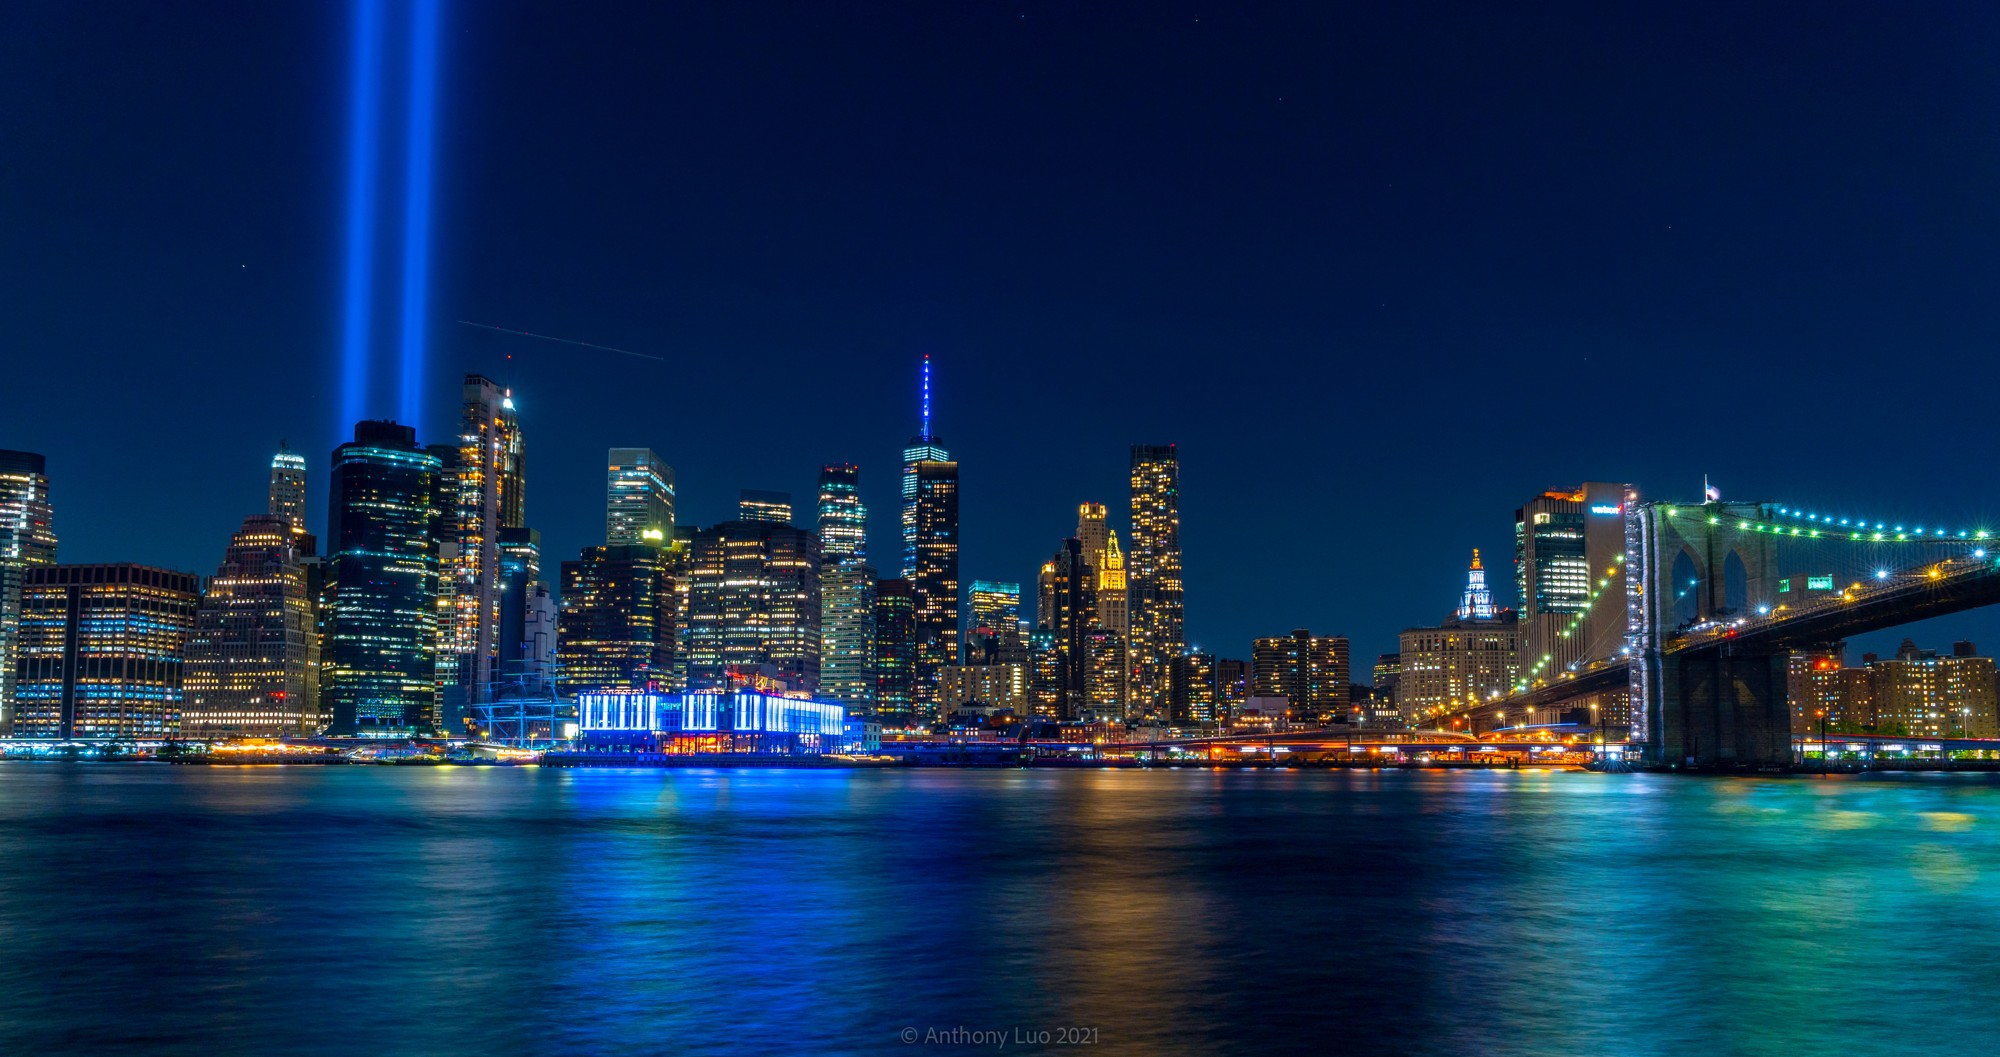
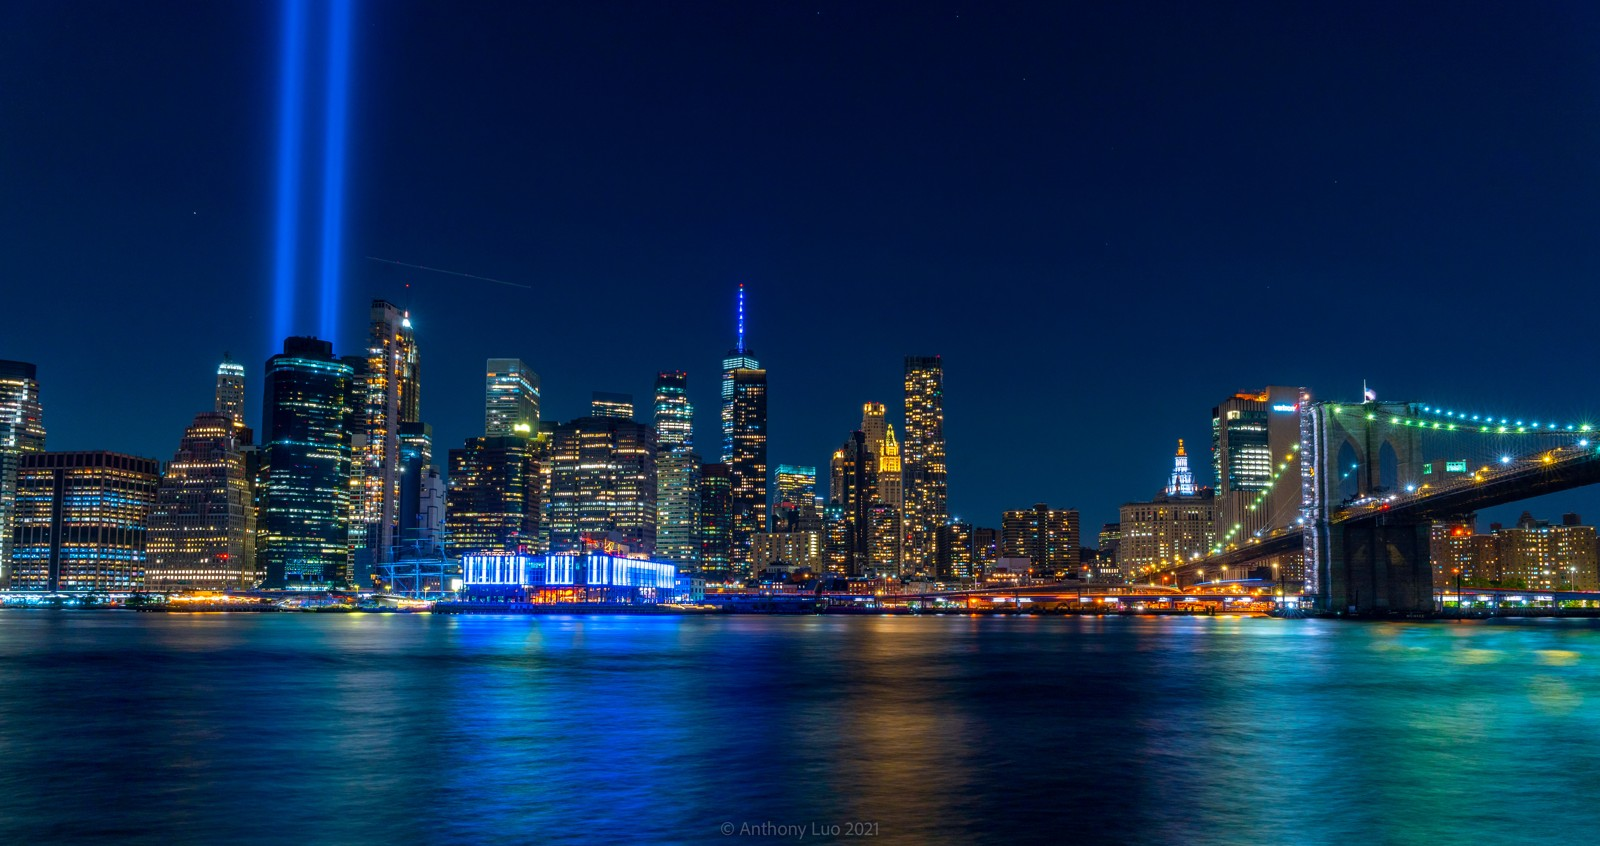
update photos, add footer link

diff --git a/index.html b/index.html
@@ -143,7 +143,9 @@
 </body>
 
 <footer id="footer">
-    <p id="footer-text">&copy; 2023 Anthony Luo. All rights reserved. | Created using Figma, Photoshop, HTML &amp; CSS
+    <p id="footer-text"><a class="footerlink" href="https://www.linkedin.com/in/luo-anthony/">&copy; 2023 Anthony
+            Luo. All
+            rights reserved. | Created using Figma, Photoshop, HTML &amp; CSS</a>
     </p>
 </footer>
 

diff --git a/photography.html b/photography.html
@@ -70,7 +70,9 @@
 </body>
 
 <footer id="footer">
-    <p id="footer-text">&copy; 2023 Anthony Luo. All rights reserved. | Created using Figma, Photoshop, HTML &amp; CSS.
+    <p id="footer-text"><a class="footerlink" href="https://luo-anthony.github.io/">&copy; 2023 Anthony
+            Luo. All
+            rights reserved. | Created using Figma, Photoshop, HTML &amp; CSS</a>
     </p>
 </footer>
 

diff --git a/assets/css/anthonystyle.css b/assets/css/anthonystyle.css
@@ -213,6 +213,12 @@ h5.stats {
     /* overflow: scroll; */
 }
 
+a.footerlink {
+    color: inherit;
+    text-decoration: none;
+    font-weight: inherit;
+}
+
 a.link {
     color: inherit;
     text-decoration-style: dashed;

diff --git a/scripts/imagecrop.py b/scripts/imagecrop.py
@@ -26,7 +26,7 @@ def crop_image_top_ratio(image):
 img_path = "/Users/anthonyluo/Documents/WebsiteFullPictures/landscape"
 output_path = "images/cityscape"
 files = [f for f in listdir(img_path) if isfile(join(img_path, f))]
-dimension = 2000
+dimension = 1600
 
 cropFunction = lambda x: x
 
